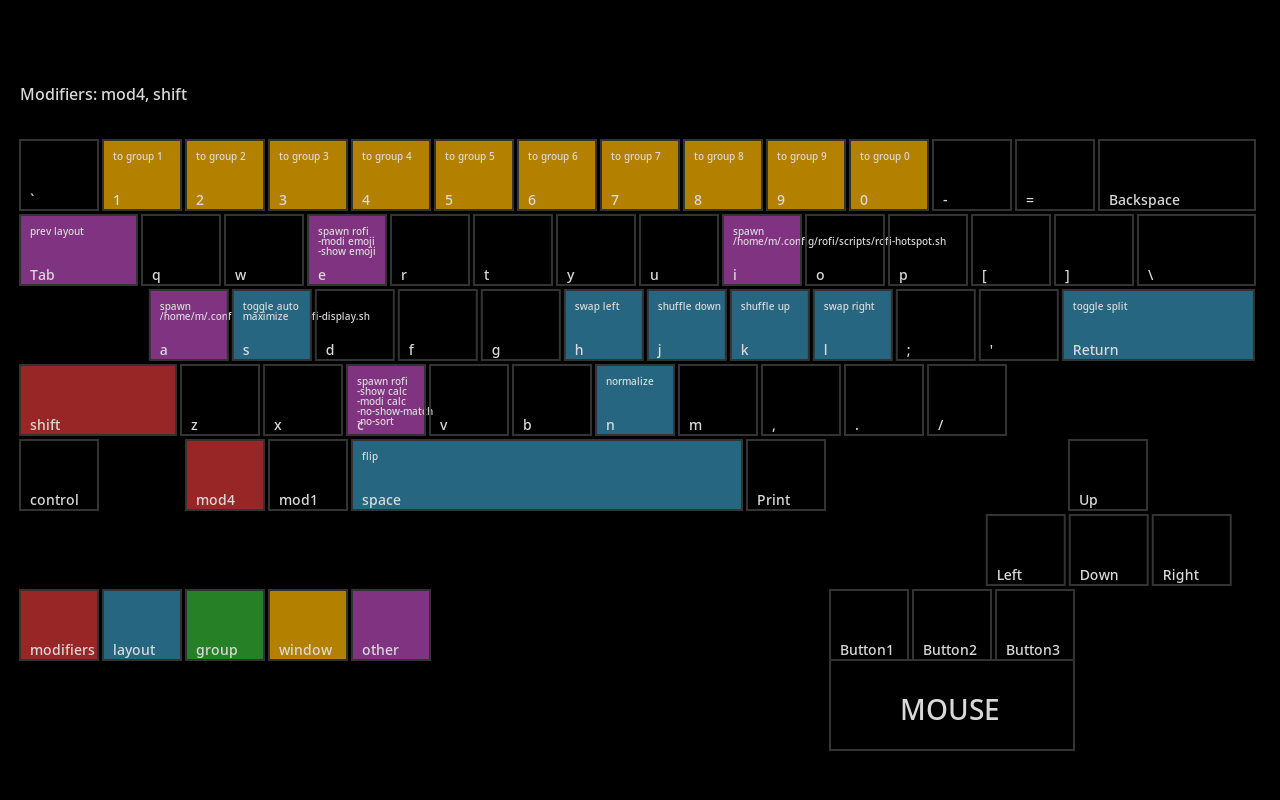
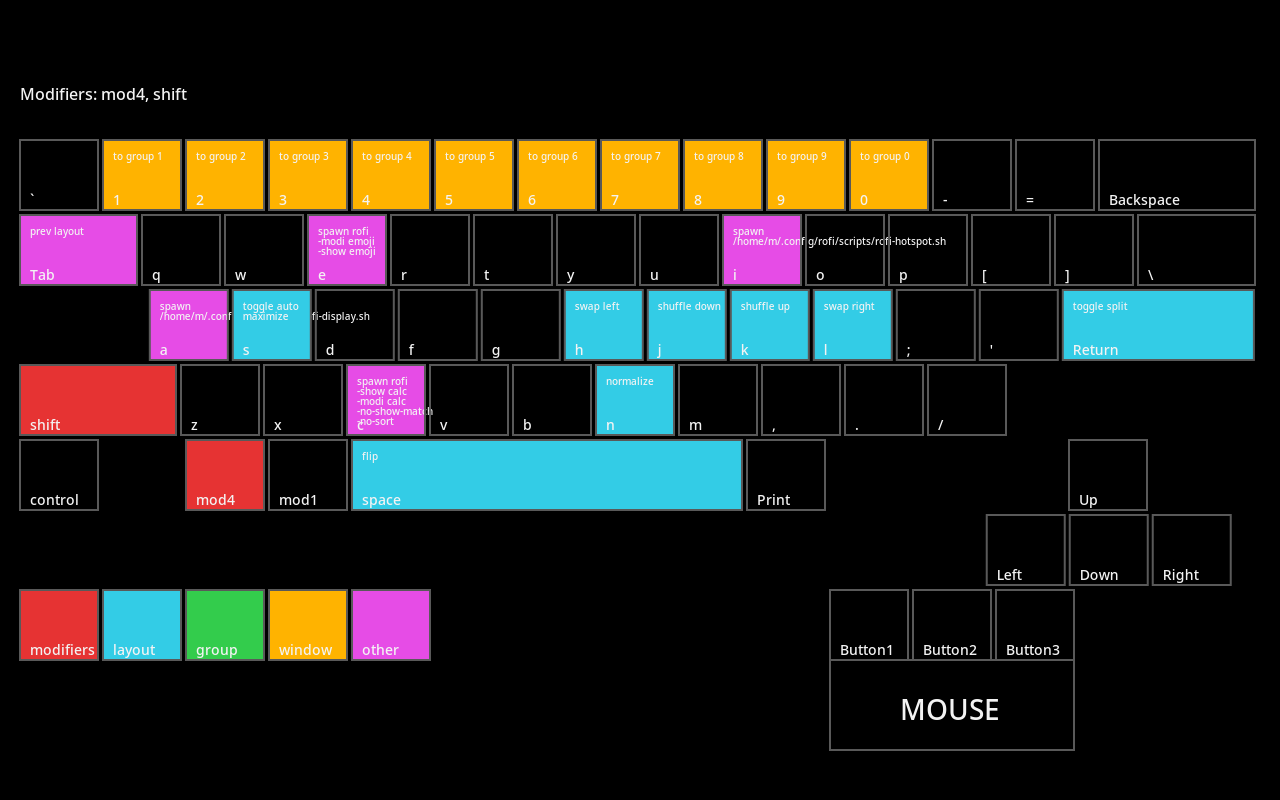
feat(theme): Update accent color and keybinding visuals
This commit introduces a new accent color across various components and enhances the visual style of the keybinding reference images.

The primary changes include:
- Updating the main accent color to a darker, more refined purple (#573598) in GTK, KDE, and Rofi themes for better consistency.
- Revising the color palette in the  script to use brighter, more vivid colors, improving the contrast and readability of the generated keybinding images.

diff --git a/gtkqt/.config/gtk-3.0/colors.css b/gtkqt/.config/gtk-3.0/colors.css
@@ -1,4 +1,4 @@
-@define-color accent_color #8A2BE2;
+@define-color accent_color #573598;
 @define-color accent_color_light #9966CC;
 @define-color success_color #6A5ACD;
 @define-color warning_color #9400D3;

diff --git a/gtkqt/.config/gtk-4.0/colors.css b/gtkqt/.config/gtk-4.0/colors.css
@@ -1,4 +1,4 @@
-@define-color accent_color #8A2BE2;
+@define-color accent_color #573598;
 @define-color accent_color_light #9966CC;
 @define-color success_color #6A5ACD;
 @define-color warning_color #9400D3;

diff --git a/wm/.config/qtile/scripts/gen-keybindings.py b/wm/.config/qtile/scripts/gen-keybindings.py
@@ -169,32 +169,32 @@ class KeyboardPNGFactory:
         context.set_source_rgb(0.0, 0.0, 0.0)
 
     def rgb_text(self, context: Context) -> None:
-        """Light gray text for readability"""
-        context.set_source_rgb(0.85, 0.85, 0.85)
+        """Bright white text for maximum contrast"""
+        context.set_source_rgb(0.95, 0.95, 0.95)
 
     def rgb_border(self, context: Context) -> None:
-        """Subtle dark gray borders"""
-        context.set_source_rgb(0.2, 0.2, 0.2)
+        """Medium gray borders for visibility"""
+        context.set_source_rgb(0.35, 0.35, 0.35)
 
     def rgb_red(self, context: Context) -> None:
-        """Darker red for modifiers"""
-        context.set_source_rgb(0.6, 0.15, 0.15)
+        """Vibrant red for modifiers - good OLED efficiency"""
+        context.set_source_rgb(0.9, 0.2, 0.2)
 
     def rgb_green(self, context: Context) -> None:
-        """Darker green for groups"""
-        context.set_source_rgb(0.15, 0.5, 0.15)
+        """Bright green for groups - OLED friendly"""
+        context.set_source_rgb(0.2, 0.8, 0.3)
 
     def rgb_yellow(self, context: Context) -> None:
-        """Darker amber for windows"""
-        context.set_source_rgb(0.7, 0.5, 0.0)
+        """Bright amber/gold for windows"""
+        context.set_source_rgb(1.0, 0.7, 0.0)
 
     def rgb_cyan(self, context: Context) -> None:
-        """Darker cyan for layouts"""
-        context.set_source_rgb(0.15, 0.4, 0.5)
+        """Bright cyan for layouts"""
+        context.set_source_rgb(0.2, 0.8, 0.9)
 
     def rgb_violet(self, context: Context) -> None:
-        """Darker violet for other"""
-        context.set_source_rgb(0.5, 0.2, 0.5)
+        """Bright magenta for other"""
+        context.set_source_rgb(0.9, 0.3, 0.9)
 
     def calculate_pos(self, x: float, y: float) -> Dict[str, Button]:
         pos = Pos(x, y)
